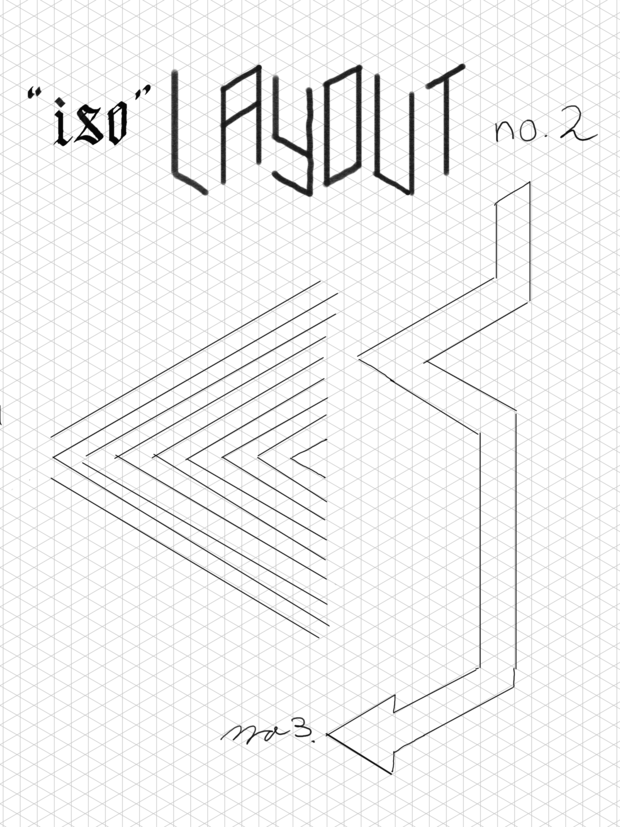
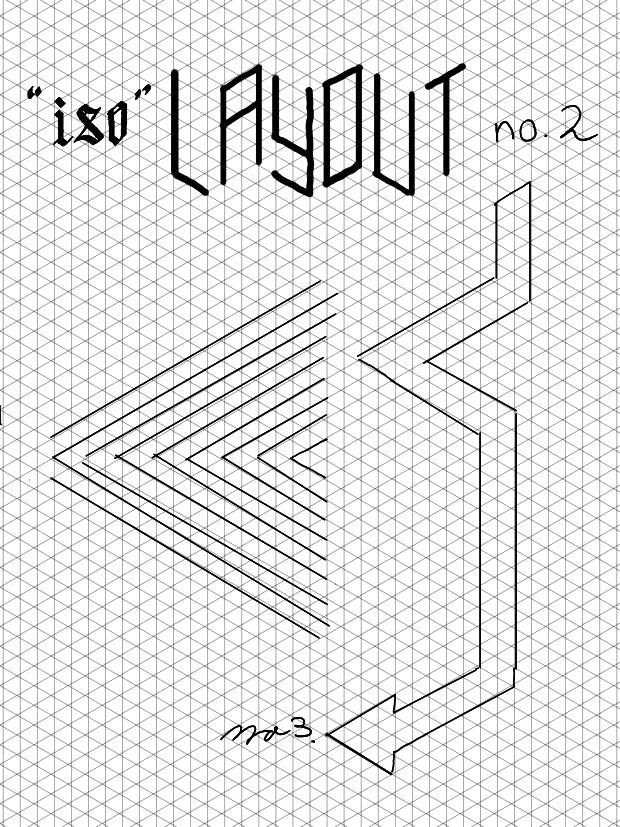
README: paper lines dark enough to see in the isometric drawing and the papers picker
The shots kept the Kindle's light gray rules, which vanish at the
gallery's display size; the lines are darkened, the ink is unchanged.

Claude-Session: https://claude.ai/code/session_01Uoe9ZJnsvCnyaaBTehocDc

Changed region(s): [[0.0, 0.0, 1.0, 1.0]]

diff --git a/README.md b/README.md
@@ -19,7 +19,7 @@ Free software under the GPL-3.0. Not affiliated with or endorsed by Amazon.
 <p>
 <img src="docs/screens/demo-vase.png" width="32%" alt="A vase shaded with the pencil and charcoal">
 <img src="docs/screens/demo-room.png" width="32%" alt="A room drawn on one page of over a thousand strokes">
-<img src="docs/screens/demo-iso.png" width="32%" alt="Isometric paper">
+<img src="docs/screens/demo-iso.png" width="32%" alt="A drawing on isometric paper">
 </p>
 <p>
 <img src="docs/screens/tools.png" width="32%" alt="The tool picker over a page">
